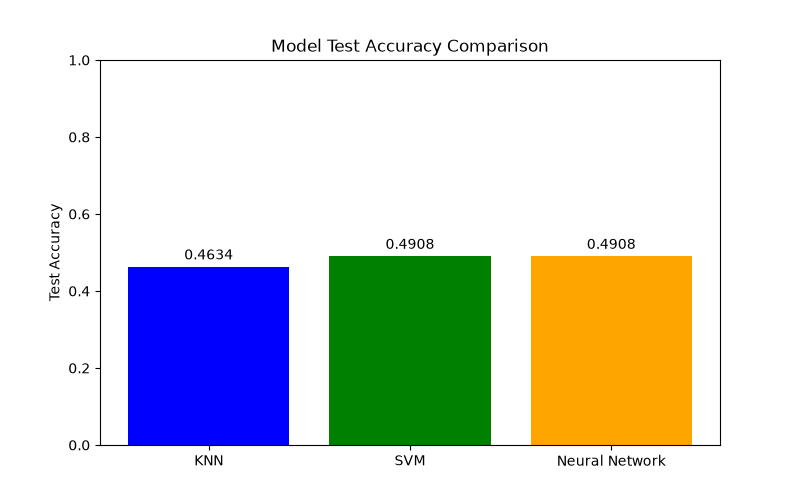
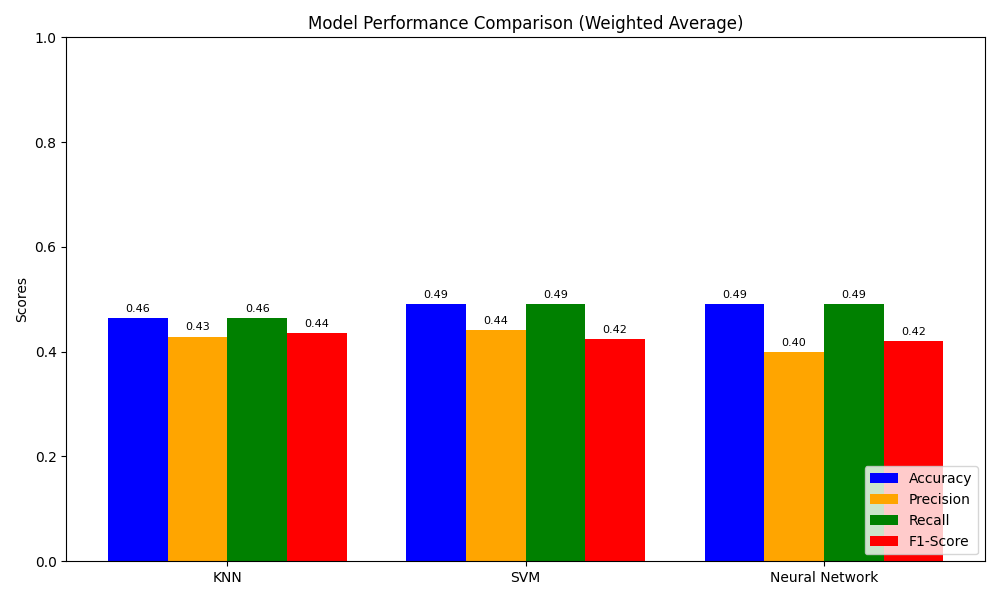
added more metrics

diff --git a/models/compare_models.py b/models/compare_models.py
@@ -19,35 +19,70 @@ svm_data = load_json('svm_best_result.json')
 nn_data = load_json('nn_best_result.json')
 
 models = []
-test_accuracies = []
+accuracies = []
+precisions = []
+recalls = []
+f1_scores = []
 
 if knn_data:
     models.append('KNN')
-    test_accuracies.append(knn_data.get('test_accuracy', 0))
+    accuracies.append(knn_data.get('test_accuracy', 0))
+    precisions.append(knn_data.get('precision', 0))
+    recalls.append(knn_data.get('recall', 0))
+    f1_scores.append(knn_data.get('f1_score', 0))
 
 if svm_data:
     models.append('SVM')
-    test_accuracies.append(svm_data.get('test_accuracy', 0))
+    accuracies.append(svm_data.get('test_accuracy', 0))
+    precisions.append(svm_data.get('precision', 0))
+    recalls.append(svm_data.get('recall', 0))
+    f1_scores.append(svm_data.get('f1_score', 0))
 
 if nn_data:
     models.append('Neural Network')
-    test_accuracies.append(nn_data.get('test_accuracy', 0))
+    accuracies.append(nn_data.get('test_accuracy', 0))
+    precisions.append(nn_data.get('precision', 0))
+    recalls.append(nn_data.get('recall', 0))
+    f1_scores.append(nn_data.get('f1_score', 0))
 
 print("Model Comparison:")
-for model, acc in zip(models, test_accuracies):
-    print(f"{model}: Test Accuracy = {acc:.4f}")
+for i, model in enumerate(models):
+    print(f"{model}: Accuracy = {accuracies[i]:.4f}, Precision = {precisions[i]:.4f}, Recall = {recalls[i]:.4f}, F1-Score = {f1_scores[i]:.4f}")
 
-# Plotting the comparison
-plt.figure(figsize=(8, 5))
-bars = plt.bar(models, test_accuracies, color=['blue', 'green', 'orange'])
-plt.ylabel('Test Accuracy')
-plt.title('Model Test Accuracy Comparison')
-plt.ylim(0, 1.0)
+# Plotting the comparison as a grouped bar chart
+x = np.arange(len(models))
+width = 0.2
 
-# Add values on top of bars
-for bar in bars:
-    yval = bar.get_height()
-    plt.text(bar.get_x() + bar.get_width()/2, yval + 0.01, f"{yval:.4f}", ha='center', va='bottom')
+fig, ax = plt.subplots(figsize=(10, 6))
+rects1 = ax.bar(x - 1.5*width, accuracies, width, label='Accuracy', color='blue')
+rects2 = ax.bar(x - 0.5*width, precisions, width, label='Precision', color='orange')
+rects3 = ax.bar(x + 0.5*width, recalls, width, label='Recall', color='green')
+rects4 = ax.bar(x + 1.5*width, f1_scores, width, label='F1-Score', color='red')
+
+ax.set_ylabel('Scores')
+ax.set_title('Model Performance Comparison (Weighted Average)')
+ax.set_xticks(x)
+ax.set_xticklabels(models)
+ax.set_ylim(0, 1.0)
+ax.legend(loc='lower right')
+
+def autolabel(rects):
+    """Attach a text label above each bar in *rects*, displaying its height."""
+    for rect in rects:
+        height = rect.get_height()
+        if height > 0:
+            ax.annotate(f'{height:.2f}',
+                        xy=(rect.get_x() + rect.get_width() / 2, height),
+                        xytext=(0, 3),  # 3 points vertical offset
+                        textcoords="offset points",
+                        ha='center', va='bottom', fontsize=8)
+
+autolabel(rects1)
+autolabel(rects2)
+autolabel(rects3)
+autolabel(rects4)
+
+fig.tight_layout()
 
 results_dir = os.path.join(script_dir, 'results')
 os.makedirs(results_dir, exist_ok=True)

diff --git a/models/train_nn.py b/models/train_nn.py
@@ -4,7 +4,7 @@ import matplotlib.pyplot as plt
 import seaborn as sns
 from sklearn.neural_network import MLPClassifier
 from sklearn.model_selection import cross_val_score, StratifiedKFold
-from sklearn.metrics import accuracy_score, classification_report, confusion_matrix
+from sklearn.metrics import accuracy_score, classification_report, confusion_matrix, precision_score, recall_score, f1_score
 import json
 import os
 
@@ -50,6 +50,11 @@ os.makedirs(results_dir, exist_ok=True)
 plt.savefig(os.path.join(results_dir, 'nn_confusion_matrix.png'))
 plt.close()
 
+# Calculate additional metrics
+precision = precision_score(y_test, y_pred, average='weighted', zero_division=0)
+recall = recall_score(y_test, y_pred, average='weighted', zero_division=0)
+f1 = f1_score(y_test, y_pred, average='weighted', zero_division=0)
+
 # Save results to json
 result = {
     "model": "Neural Network (MLP)",
@@ -59,7 +64,10 @@ result = {
         "early_stopping": True
     },
     "cv_accuracy": round(cv_accuracy, 4),
-    "test_accuracy": round(test_accuracy, 4)
+    "test_accuracy": round(test_accuracy, 4),
+    "precision": round(precision, 4),
+    "recall": round(recall, 4),
+    "f1_score": round(f1, 4)
 }
 
 with open(os.path.join(script_dir, 'nn_best_result.json'), 'w') as f:
